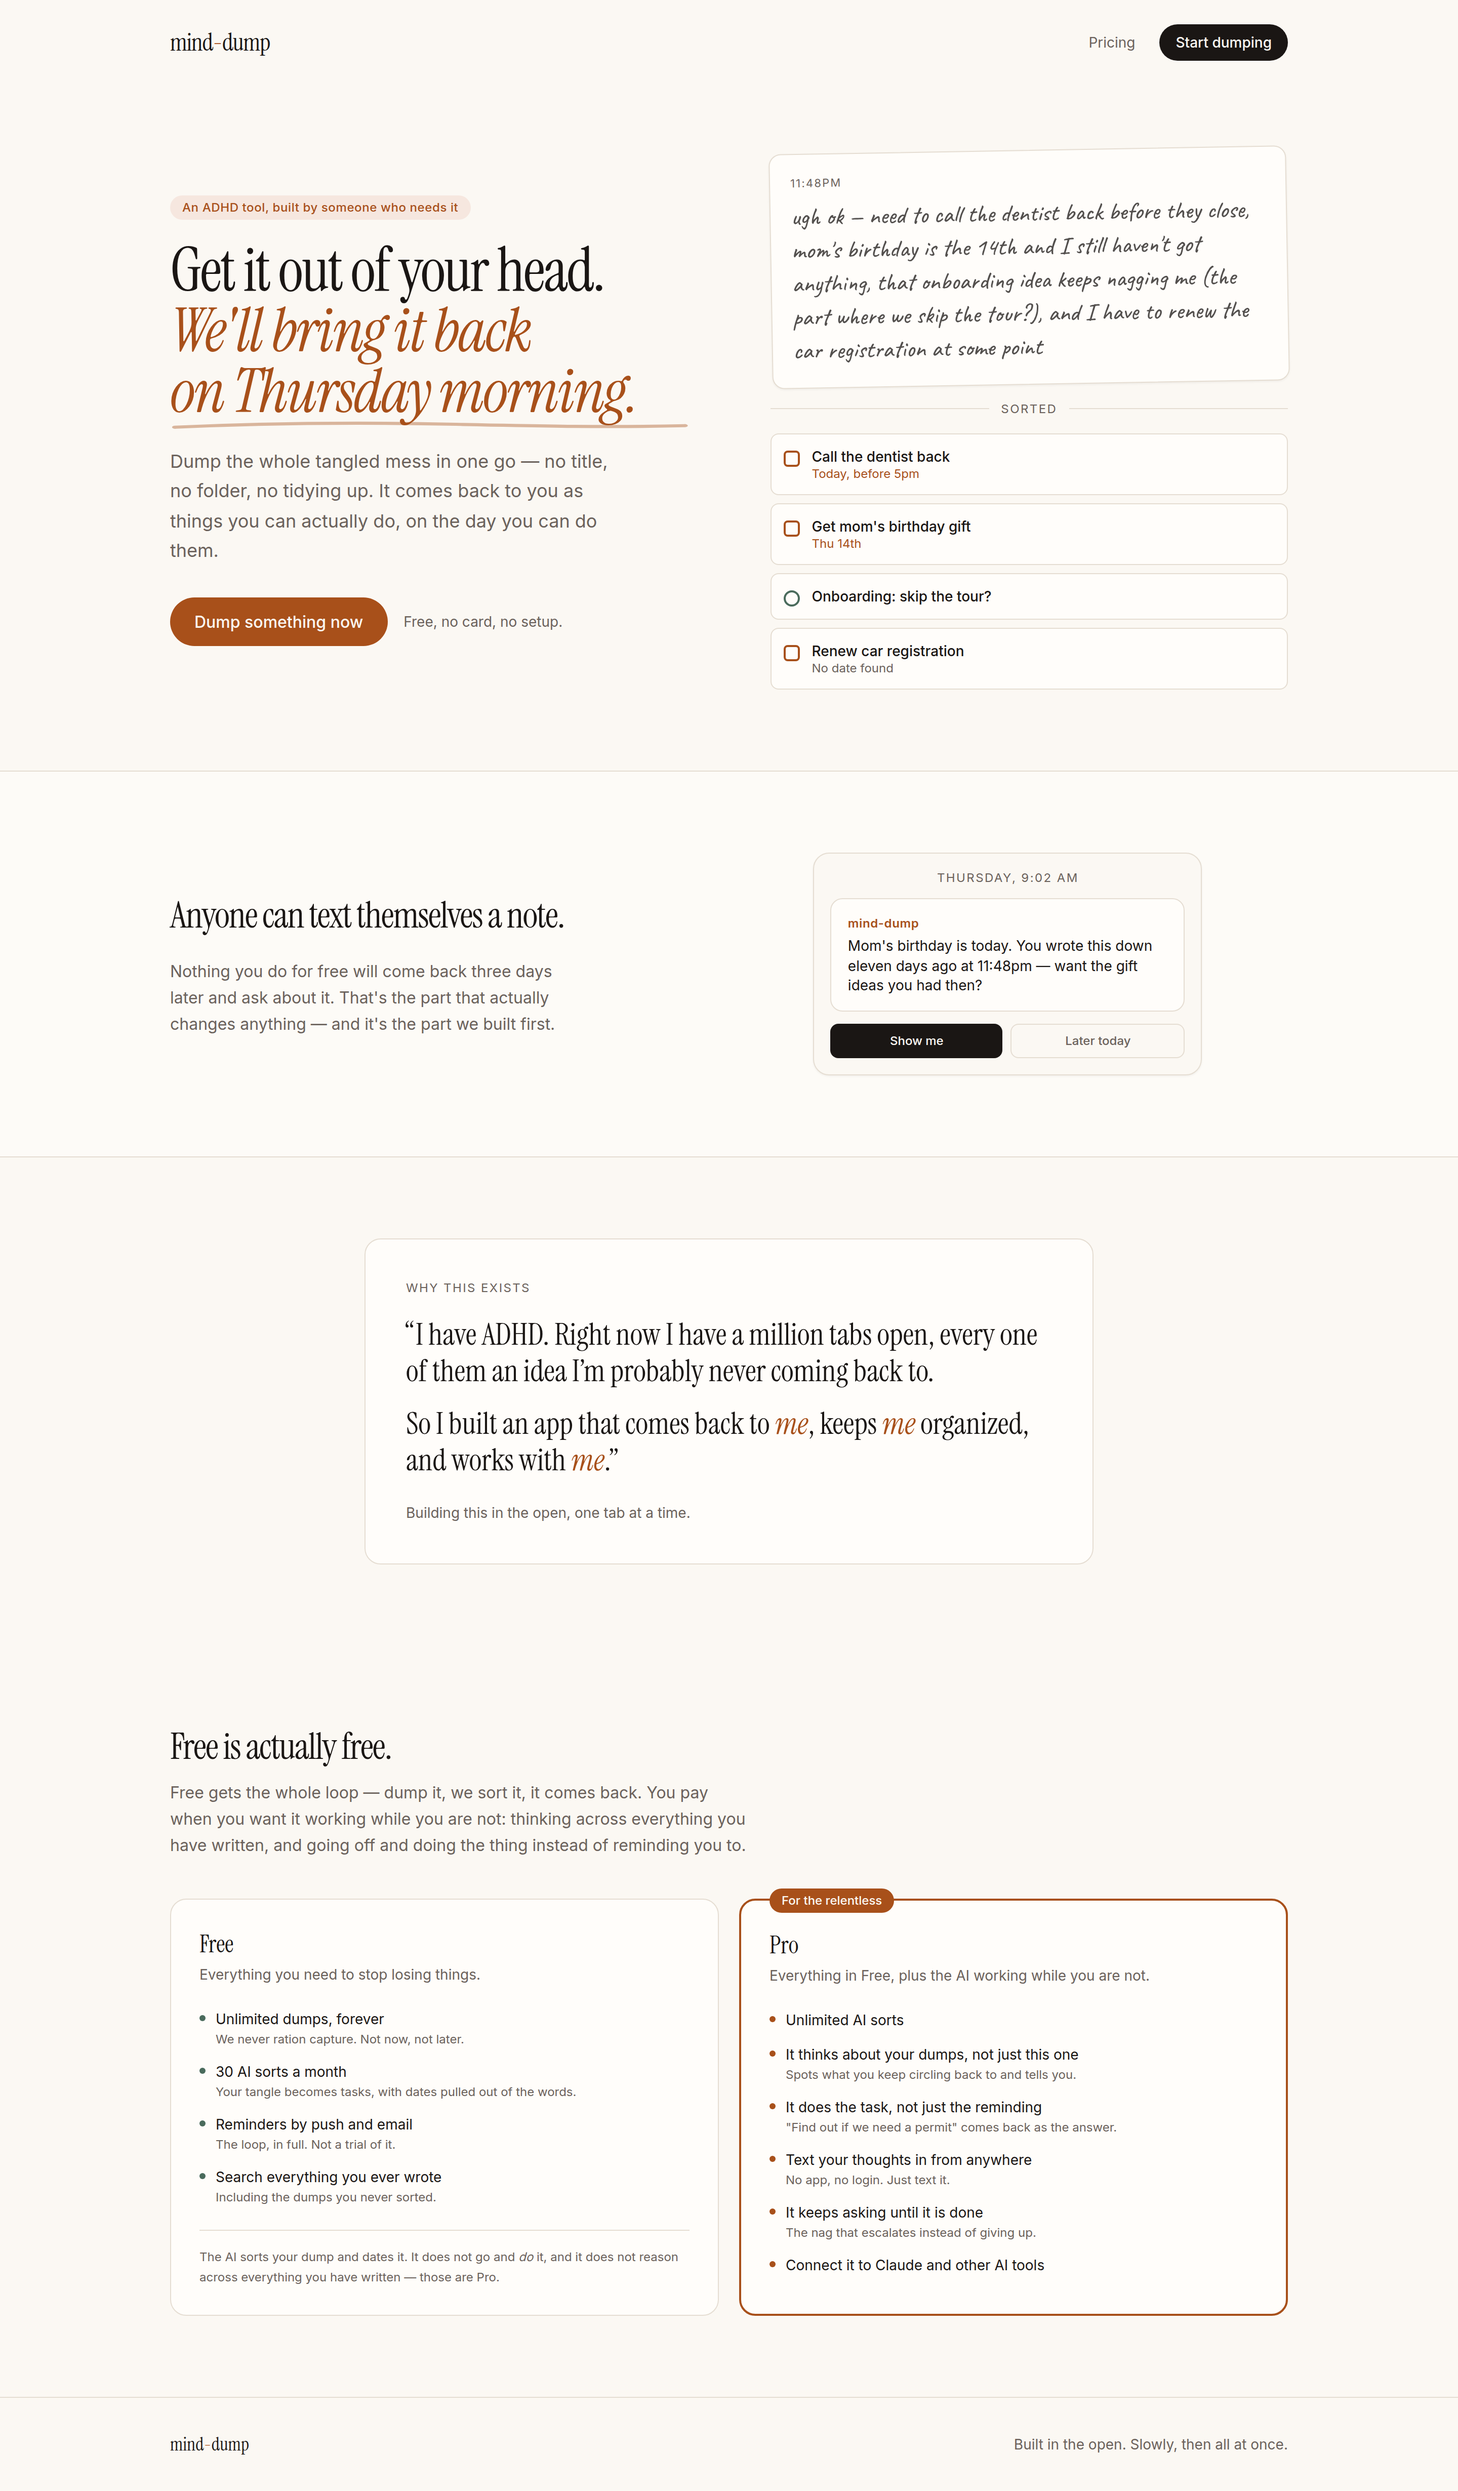
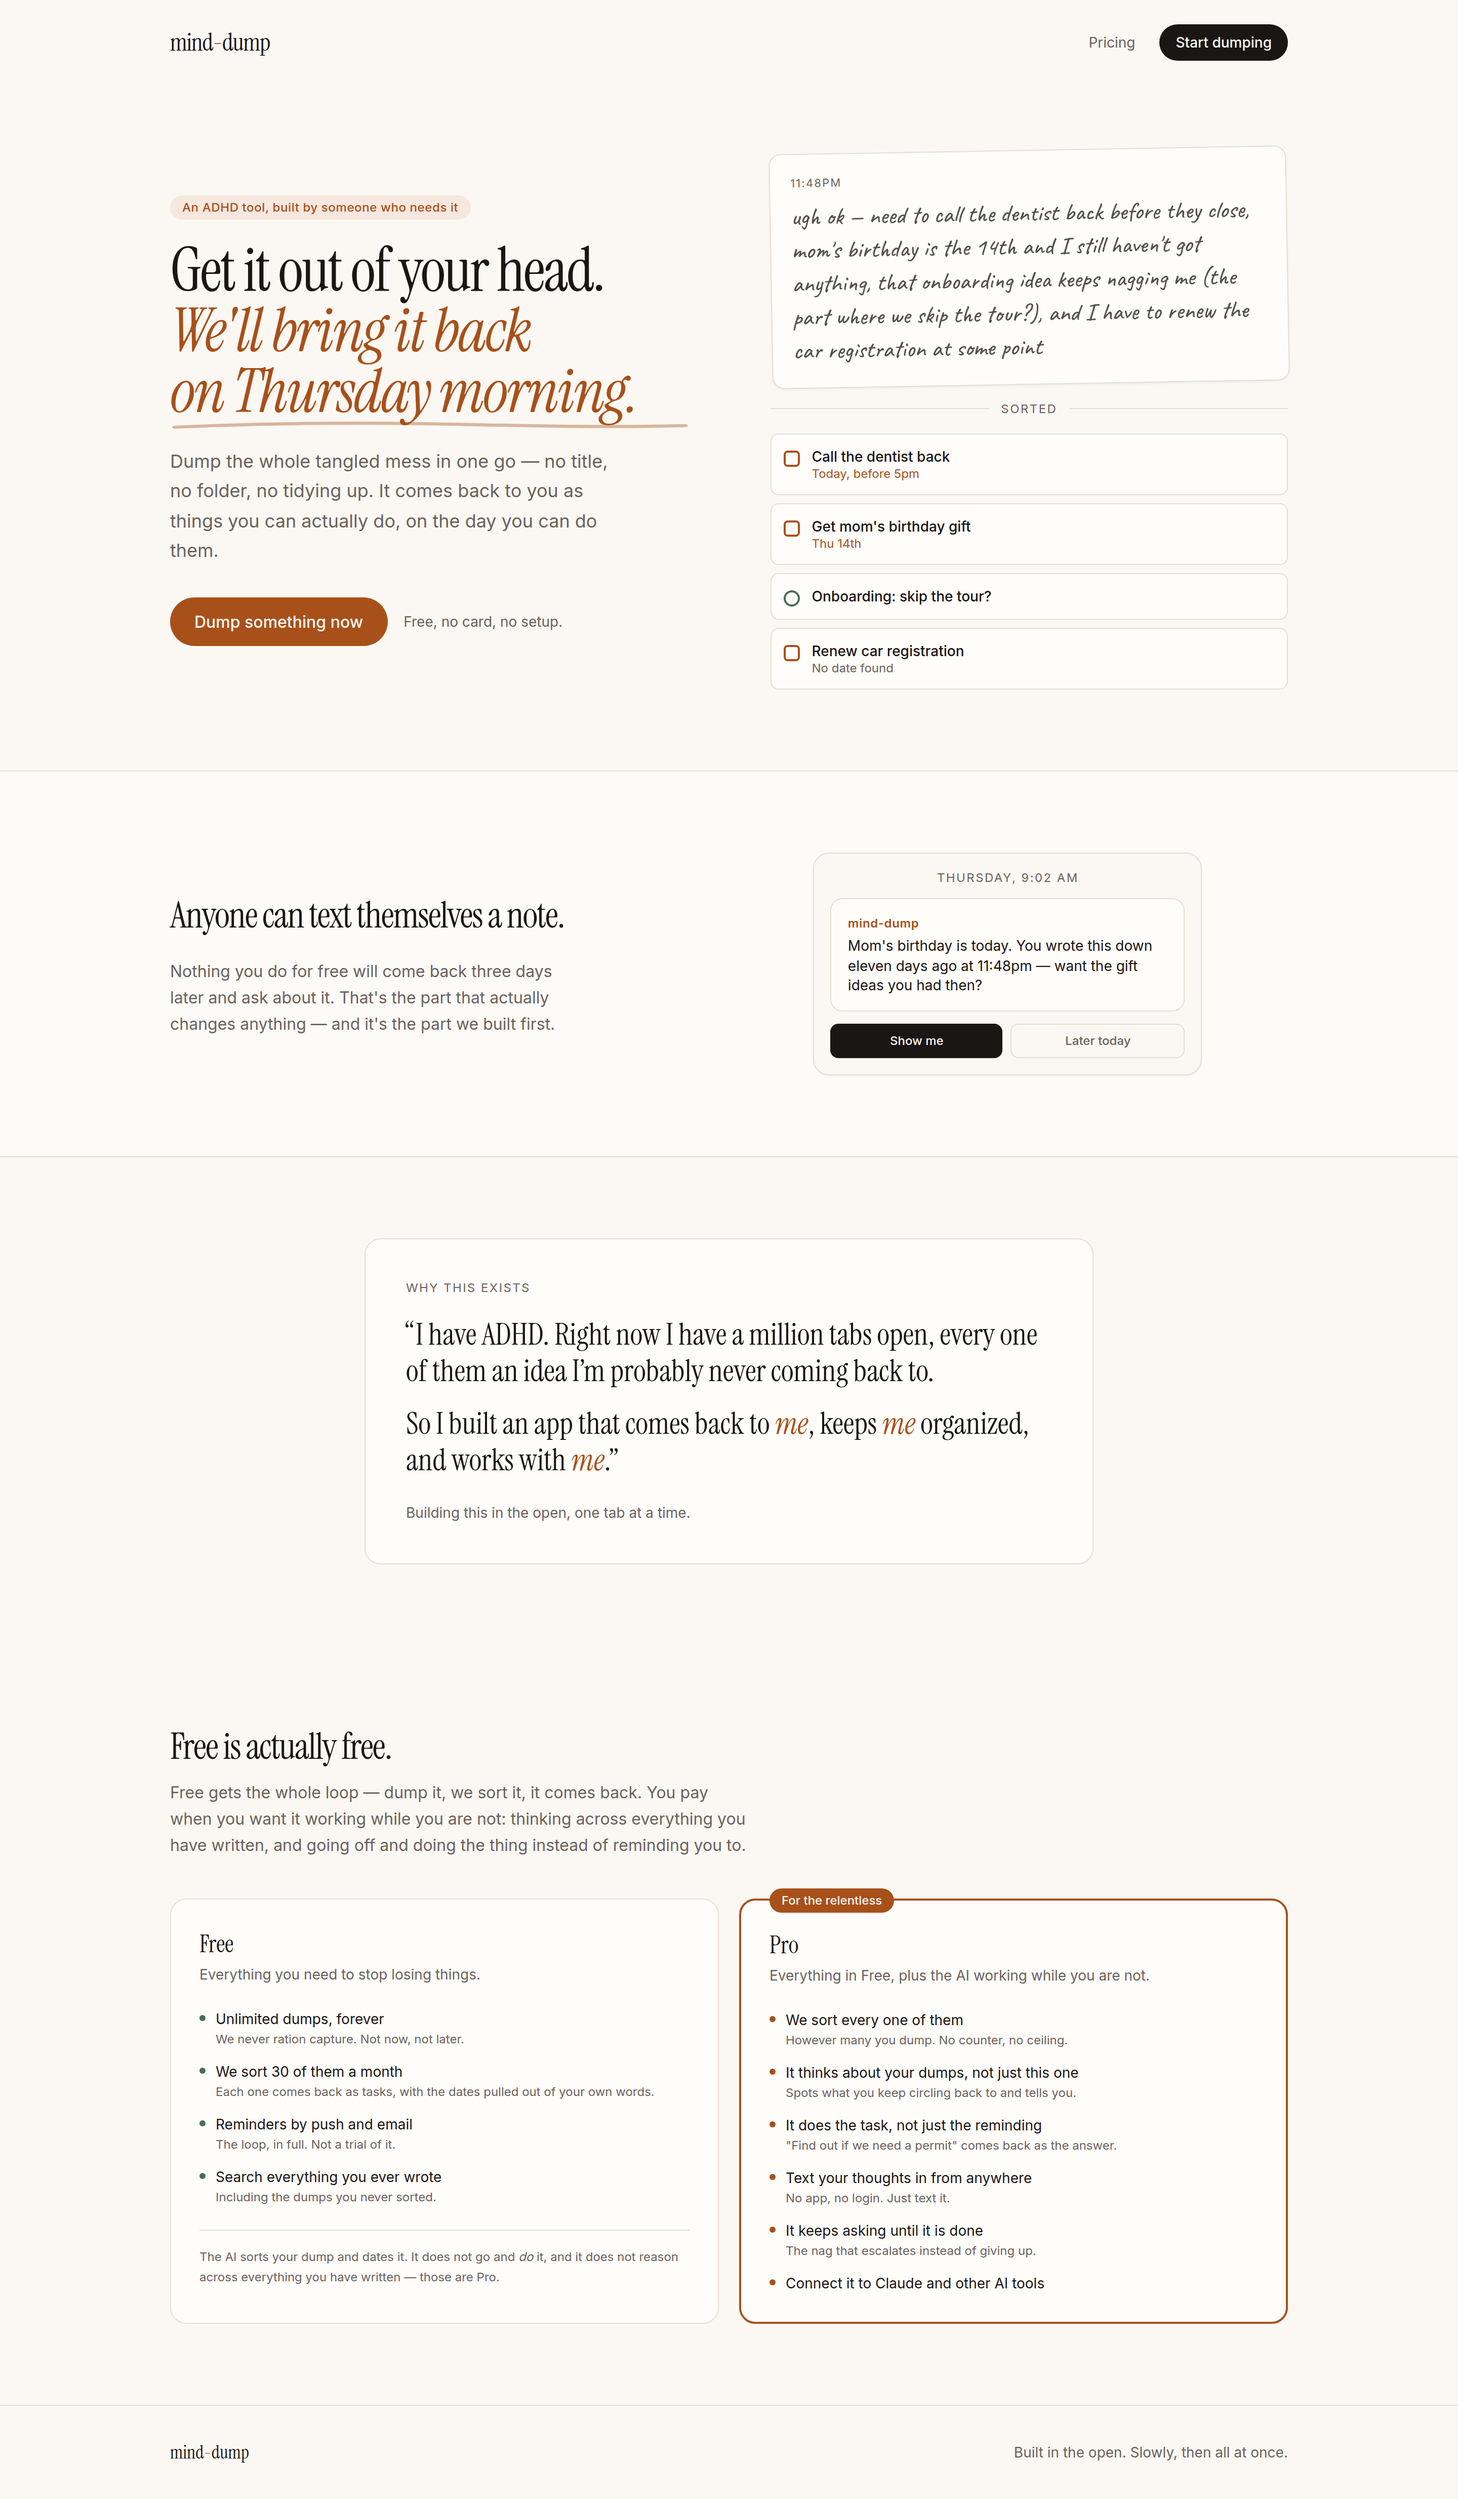
Drop the invented unit "AI sort" from the pricing copy
"30 AI sorts a month" made a countable noun out of an internal concept — one run
of the extraction pass, one Transform row. The founder had to ask what it meant,
which settles it: a first-time visitor has no chance.

It is also the worst possible place for jargon, because it is the metering unit.
A reader has to understand it to judge whether 30 is generous or stingy, and
"30 AI sorts" could denominate anything.

Now phrased with the vocabulary the page already teaches — the page says "dump"
throughout and the hero divider already reads SORTED, so sort works as a verb
where it failed as a noun:

  "We sort 30 of them a month"  / "Each one comes back as tasks, with the dates
  pulled out of your own words."
  "We sort every one of them"   / "However many you dump. No counter, no ceiling."

The boundary statement under the Free list keeps "the AI sorts your dump", which
is the same verb and reads plainly.

Refs #8, #12

diff --git a/apps/web/src/pages/LandingPage.tsx b/apps/web/src/pages/LandingPage.tsx
@@ -227,15 +227,15 @@ function FeatureList({ items, dot }: { items: Feature[]; dot: string }) {
 const FREE: Feature[] = [
   { label: 'Unlimited dumps, forever', note: 'We never ration capture. Not now, not later.' },
   {
-    label: '30 AI sorts a month',
-    note: 'Your tangle becomes tasks, with dates pulled out of the words.',
+    label: 'We sort 30 of them a month',
+    note: 'Each one comes back as tasks, with the dates pulled out of your own words.',
   },
   { label: 'Reminders by push and email', note: 'The loop, in full. Not a trial of it.' },
   { label: 'Search everything you ever wrote', note: 'Including the dumps you never sorted.' },
 ];
 
 const PRO: Feature[] = [
-  { label: 'Unlimited AI sorts' },
+  { label: 'We sort every one of them', note: 'However many you dump. No counter, no ceiling.' },
   {
     label: 'It thinks about your dumps, not just this one',
     note: 'Spots what you keep circling back to and tells you.',
